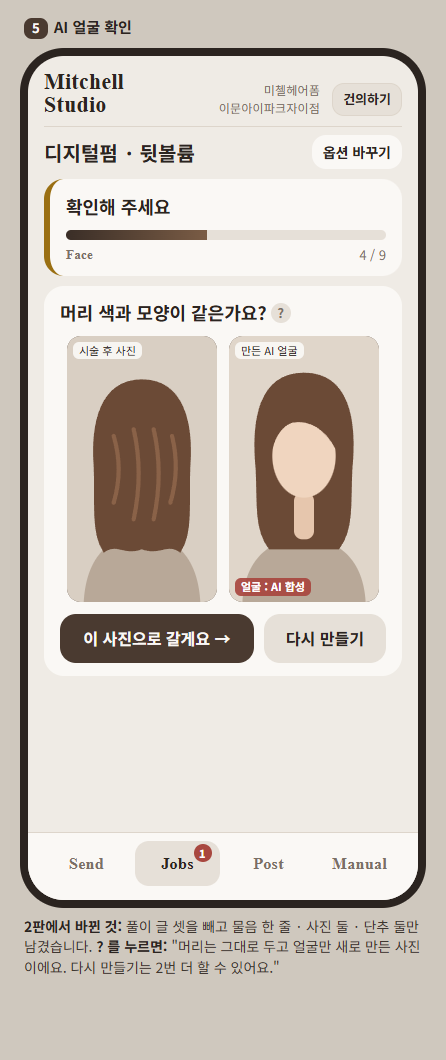
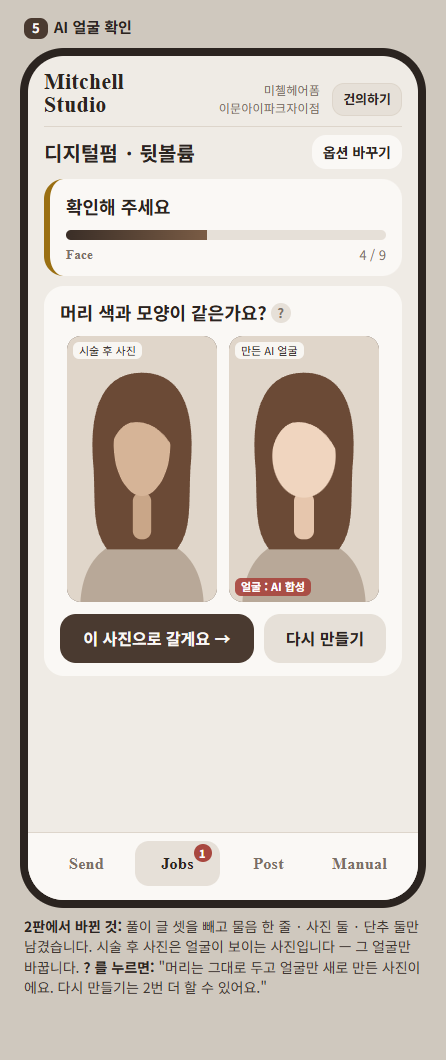
S8_UIUX_REWORK: 덧붙임 8 — 화면 5의 시술 후 사진을 얼굴이 보이는 앞모습 그림으로(머리 같고 얼굴만 다름) · 화면 4 · 15 작은 그림에 한 장 · s05 · s04 · s15 다시 찍음 · README · 반환

diff --git a/projects/btsr/roles/rsch/sub/s8_uiux_rework/UIUX_웹앱1차시안_3판_CLAUDE.html b/projects/btsr/roles/rsch/sub/s8_uiux_rework/UIUX_웹앱1차시안_3판_CLAUDE.html
@@ -144,6 +144,14 @@ ol.scr7 { margin:0; padding-left:22px; display:flex; flex-direction:column; gap:
     <ellipse cx="45" cy="72" rx="19" ry="25" fill="#f0d5bf"/>
     <path d="M26 68 C24 44 38 37 50 39 C61 41 66 52 64 68 C58 56 48 50 38 52 C32 54 28 60 26 68Z" fill="#6b4a36"/>
   </symbol>
+  <symbol id="p-front" viewBox="0 0 90 160">
+    <rect width="90" height="160" fill="#e0d6ca"/>
+    <path d="M8 160 Q10 124 45 120 Q80 124 82 160Z" fill="#b8a898"/>
+    <path d="M45 22 C18 22 13 50 16 80 C17 102 15 116 24 128 L66 128 C75 116 73 102 74 80 C77 50 72 22 45 22Z" fill="#6b4a36"/>
+    <rect x="39.5" y="94" width="11" height="28" rx="5" fill="#c9a688"/>
+    <path d="M28 66 C28 52 34 46 45 46 C56 46 62 52 62 66 C62 82 54 96 45 96 C36 96 28 82 28 66Z" fill="#d6b497"/>
+    <path d="M26 68 C24 44 38 37 50 39 C61 41 66 52 64 68 C58 56 48 50 38 52 C32 54 28 60 26 68Z" fill="#6b4a36"/>
+  </symbol>
   <symbol id="p-blur" viewBox="0 0 90 160">
     <rect width="90" height="160" fill="#d4cabe"/>
     <ellipse cx="45" cy="84" rx="34" ry="54" fill="#8a6c58" opacity=".55"/>
@@ -225,7 +233,7 @@ ol.scr7 { margin:0; padding-left:22px; display:flex; flex-direction:column; gap:
     <div class="card">
       <div class="thumbs" style="margin-top:0">
         <div class="th"><svg viewBox="0 0 90 160" preserveAspectRatio="xMidYMid slice"><use href="#p-after"/></svg><i>시술 후</i></div>
-        <div class="th"><svg viewBox="0 0 90 160" preserveAspectRatio="xMidYMid slice"><use href="#p-after"/></svg><i>시술 후</i></div>
+        <div class="th"><svg viewBox="0 0 90 160" preserveAspectRatio="xMidYMid slice"><use href="#p-front"/></svg><i>시술 후</i></div>
         <div class="th none"><i>시술 전<br>없음</i></div>
         <div class="th make"><i>AI 얼굴<br>만들 예정</i></div>
       </div>
@@ -251,14 +259,14 @@ ol.scr7 { margin:0; padding-left:22px; display:flex; flex-direction:column; gap:
     <div class="card">
       <div style="font-size:18px;font-weight:700">머리 색과 모양이 같은가요?<span class="q">?</span></div>
       <div class="side" style="margin-top:10px;justify-content:center">
-        <div class="vid"><svg class="pic" viewBox="0 0 90 160" preserveAspectRatio="xMidYMid slice"><use href="#p-after"/></svg><u>시술 후 사진</u></div>
+        <div class="vid"><svg class="pic" viewBox="0 0 90 160" preserveAspectRatio="xMidYMid slice"><use href="#p-front"/></svg><u>시술 후 사진</u></div>
         <div class="vid"><svg class="pic" viewBox="0 0 90 160" preserveAspectRatio="xMidYMid slice"><use href="#p-face"/></svg><u>만든 AI 얼굴</u><em>얼굴 : AI 합성</em></div>
       </div>
       <div class="row" style="margin-top:12px"><div class="btn" style="flex:1.65;font-size:16px;padding:13px 6px">이 사진으로 갈게요 →</div><div class="btn soft" style="font-size:16px;padding:13px 6px">다시 만들기</div></div>
     </div>
   </div>
   <div class="tabs"><span>Send</span><span class="on">Jobs<span class="badge">1</span></span><span>Post</span><span>Manual</span></div></div>
-  <div class="ft"><b>2판에서 바뀐 것:</b> 풀이 글 셋을 빼고 물음 한 줄 · 사진 둘 · 단추 둘만 남겼습니다. <b>? 를 누르면:</b> "머리는 그대로 두고 얼굴만 새로 만든 사진이에요. 다시 만들기는 2번 더 할 수 있어요."</div>
+  <div class="ft"><b>2판에서 바뀐 것:</b> 풀이 글 셋을 빼고 물음 한 줄 · 사진 둘 · 단추 둘만 남겼습니다. 시술 후 사진은 얼굴이 보이는 사진입니다 — 그 얼굴만 바꿉니다. <b>? 를 누르면:</b> "머리는 그대로 두고 얼굴만 새로 만든 사진이에요. 다시 만들기는 2번 더 할 수 있어요."</div>
 </div>
 
 <!-- ───────── 6 만드는 중 ───────── -->
@@ -481,7 +489,7 @@ ol.scr7 { margin:0; padding-left:22px; display:flex; flex-direction:column; gap:
     <div class="card">
       <div class="thumbs" style="grid-template-columns:repeat(5,1fr);margin:0">
         <div class="th"><svg viewBox="0 0 90 160" preserveAspectRatio="xMidYMid slice"><use href="#p-after"/></svg><b class="x">×</b><i>영상</i></div>
-        <div class="th"><svg viewBox="0 0 90 160" preserveAspectRatio="xMidYMid slice"><use href="#p-after"/></svg><b class="x">×</b><i>사진</i></div>
+        <div class="th"><svg viewBox="0 0 90 160" preserveAspectRatio="xMidYMid slice"><use href="#p-front"/></svg><b class="x">×</b><i>사진</i></div>
         <div class="th"><svg viewBox="0 0 90 160" preserveAspectRatio="xMidYMid slice"><use href="#p-after"/></svg><b class="x">×</b><i>사진</i></div>
         <div class="th"><svg viewBox="0 0 90 160" preserveAspectRatio="xMidYMid slice"><use href="#p-before"/></svg><b class="x">×</b><i>사진</i></div>
         <div class="th make"><i style="font-size:22px;bottom:30%">+</i></div>

diff --git a/projects/btsr/roles/rsch/sub/s8_uiux_rework/반환.md b/projects/btsr/roles/rsch/sub/s8_uiux_rework/반환.md
@@ -1,6 +1,6 @@
 # 반환 — MITCHELL_STUDIO/BTSR/RSCH/S8_UIUX_REWORK
 
-- 쓴 때: 2026-11-21 15:04 KST · 덧붙임 2를 넣어 고친 때: 2026-11-21 15:17 KST · 덧붙임 3을 넣어 고친 때: 2026-11-21 15:32 KST · 덧붙임 4를 넣어 고친 때: 2026-11-21 15:38 KST · 덧붙임 5를 넣어 고친 때: 2026-11-21 15:43 KST · 덧붙임 6을 넣어 고친 때: 2026-11-21 16:18 KST · 덧붙임 7을 넣어 고친 때: 2026-11-21 16:32 KST · 연 이: PRIMARY Paseo a97bebab · 패킷: `OPEN_PACKET.md`(8bd51fa · 덧붙임 d069374 · 덧붙임 2 ed67f92 · 덧붙임 3 7c55ad5 · 덧붙임 4 5363184 · 덧붙임 5 2b3b203 · 덧붙임 6 13a45dd · 덧붙임 7 df8eef2)
+- 쓴 때: 2026-11-21 15:04 KST · 덧붙임 2를 넣어 고친 때: 2026-11-21 15:17 KST · 덧붙임 3을 넣어 고친 때: 2026-11-21 15:32 KST · 덧붙임 4를 넣어 고친 때: 2026-11-21 15:38 KST · 덧붙임 5를 넣어 고친 때: 2026-11-21 15:43 KST · 덧붙임 6을 넣어 고친 때: 2026-11-21 16:18 KST · 덧붙임 7을 넣어 고친 때: 2026-11-21 16:32 KST · 덧붙임 8을 넣어 고친 때: 2026-11-21 16:35 KST · 연 이: PRIMARY Paseo a97bebab · 패킷: `OPEN_PACKET.md`(8bd51fa · 덧붙임 d069374 · 덧붙임 2 ed67f92 · 덧붙임 3 7c55ad5 · 덧붙임 4 5363184 · 덧붙임 5 2b3b203 · 덧붙임 6 13a45dd · 덧붙임 7 df8eef2 · 덧붙임 8 816471e)
 - 낸 것: `UIUX_웹앱1차시안_3판_CLAUDE.html`(화면 17개 · `#s1`…`#s17`) · `s01.png`–`s17.png` · `README.md` · 이 글
 - 바탕: 시안 2판(`sub/s6_uiux_draft/v2/` — 고치지 않음) · 지금 웹앱 `app/webapp/static/app.html`(제품 저장소 로컬 `origin/main` 3072e7e를 `git show`로만 봄)
 - 커밋: 첫 판 29cd237(화면 13개) → 덧붙임을 넣은 판 fc31856(화면 14개) → 덧붙임 2를 넣은 판(화면 2 · 3 · 10만 고침 · 번호 그대로)이 그 다음 커밋
@@ -14,6 +14,7 @@
 | 3 | "보내기가 아니고 Send로 해주세요." | 큰 단추 `Send`. 카드 머리 '다 됨'은 뺌(화면 10 · 11은 바 아래 `Done`). 한글 견줘 보기 뺌. |
 | 4 | "작업 목록 없습니다. 하나씩만하세요. 진행중엔 그냥 프로그레스 바" | 작업 목록 화면 뺌. Jobs = 지금 만드는 한 편. 만드는 중 = 제목 · 하는 일 한 줄 · 바 · 바 아래 단계 이름과 몇째(예: `Voice · Music · Fit · Export` 7 / 9). 진행 기록 · 단계 줄은 모든 화면에서 뺌. 확인이 필요하면 같은 화면에 물음 한 줄 + 단추. |
 | 5 | "도대체 알림 설명화면은 왜 있는건가요?" · 14:59:10 "알림 설정은 따로 메뉴얼로 빼시고요." | 알림 화면 뺌. 화면 밖 설명과 README에 "알림 켜는 법은 Manual 탭" 한 줄. |
+| 덧붙임 8 | (PRIMARY 패킷 덧붙임 8 — 그림 속 · 한알 16:14:32 · 요청서 003 24번) | 얼굴이 보이는 시술 후 그림(`p-front`)을 새로 그림 — '만든 AI 얼굴' 그림(`p-face`)과 배경 · 어깨 · 머리 색 · 길이 · 모양 · 앞머리는 같고 **얼굴 면의 꼴(갸름한 꼴)과 빛깔(더 짙게)만 다름**. 이목구비는 그리지 않음. **화면 5:** 왼쪽 '시술 후 사진'을 뒷모습에서 이 그림으로 바꿈. '얼굴 : AI 합성' 표시는 오른쪽에만. 물음 · ? · 단추는 그대로. 밖 설명에 '시술 후 사진은 얼굴이 보이는 사진입니다 — 그 얼굴만 바꿉니다' 한 마디. **화면 4:** 시술 후 둘 가운데 둘째를 이 그림으로. **화면 15:** 사진 셋 가운데 첫째를 이 그림으로. **화면 17:** 그대로(뒷모습뿐). `s05` · `s04` · `s15` 다시 찍음. README에 아홉째 줄. 번호 그대로. |
 | 덧붙임 7 | (PRIMARY 패킷 덧붙임 7 — 화면 밖 설명만 · 화면 그림 속은 그대로) | **화면 16 밖 설명:** '차례로는 화면 3과 4 사이' → '화면 3(원고를 쓰는 중) 다음, 화면 5(AI 얼굴 확인) 앞'. **화면 4 밖 설명:** '화면 4 · 17은 자료를 받은 바로 뒤에 묻는 것이라 차례로는 화면 2와 3 사이' 한 마디를 넣고, 'AI 얼굴은 여기서도 묻지 않습니다'를 '얼굴이 보이는 시술 후 사진이 있으면 묻지 않고 웹앱이 만듭니다 — 없을 때만 화면 17로 알립니다'로. 자리를 내려고 '미첼이 고를 때까지 바는 그 자리에 서 있습니다' 한 줄은 뺌. **화면 3:** 밖 설명을 같은 뜻으로 맞추고, 그림 밖 제목 줄을 'AI 얼굴 — 얼굴이 보이는 사진이 있으면 묻지 않음'으로. README의 일곱째 · 여덟째 줄을 같은 뜻으로 고치고 '차례로 읽으면' 한 줄을 더함. `s03` · `s04` · `s16` 다시 찍음. 번호 · 그림 속 화면은 그대로. |
 | 덧붙임 6 | 16:14:32 "안올렸으면 알려주기만 하고 확인 받으면 ai 얼굴없이 진행하는게 맞지 않나요" (PRIMARY 패킷 덧붙임 6 · 요청서 003 24번) | **화면 17 '얼굴이 보이는 사진이 없을 때'를 새로 넣음** — 화면 4와 같은 꼴 · 같은 바 자리(`Intake` 2 / 9): 제목 줄 · 현황 「확인해 주세요」 + 바 · 올린 것 작은 그림(시술 후 둘 · 시술 전 하나 · 점선 칸 '얼굴 사진 없음') · 한 줄 「얼굴이 보이는 시술 후 사진이 없어요」 · 단추 「AI 얼굴 없이 갈게요 →」(주)와 「더 보내기」. 화면 속 설명 글 없음. Jobs 탭 빨간 숫자 1. 밖 설명은 패킷 글대로(앞모습을 지어내지 않음 · AI 얼굴 장면과 AI 표시 없이 만들고 화면 5를 건너뜀 · 더 보내면 화면 5에서 확인 · 화면 4와 같은 자리). 화면 7의 밖 설명과 README의 확인을 기다리는 화면 목록을 4 · 5 · 8 · 10 · 16 · 17로. `s17` 찍고 `s07` 다시 찍음. README에 여덟째 줄과 화면 17 그림 줄. 앞 화면 번호(1 – 16)는 그대로. |
 | 덧붙임 5 | 15:27:23 "변경된 기획에 맞춰 시안도 수정요청 하세요." (PRIMARY 패킷 덧붙임 5 · 요구 2.2판 R2.5 · 결정 19 · 요청서 003 19번 라) | **화면 16 '원고 확인'을 새로 넣음** — 화면 5 · 10의 확인 화면 꼴: 제목 줄 · 현황 「확인해 주세요」 + 바(`Script` 3 / 9) · 원고 칸(번호 붙은 일곱 줄 — 지어낸 예시 · 그 아래 글자 수 `85글자`) · 단추 「이 원고로 갈게요 →」(주)와 「고칠 점 적기」. 화면 속 설명 글 없음. Jobs 탭 빨간 숫자 1. 밖 설명에 '차례로는 화면 3과 4 사이'. 화면 7의 밖 설명에서 확인을 기다리는 화면 목록을 4 · 5 · 8 · 10 · 16으로. `s16` 찍고 `s07` 다시 찍음. README에 일곱째 줄과 화면 16 그림 줄. 앞 화면 번호(1 – 15)는 그대로. |
@@ -60,13 +61,15 @@
 ## 확인하지 않은 것
 
 - 그림은 윈도우의 화면 없는 Chrome(446×1060)으로 찍음. 아이폰 사파리에서 보지 않음 — 글꼴이 다르게 보일 수 있음.
-- 첫 판 13개 그림은 모두 눈으로 봄(넘침 · 겹침 없음). 덧붙임 뒤 다시 찍은 14개 가운데는 새 화면 7과 끝 화면 14만 다시 봄 — 나머지는 번호만 바뀜. 덧붙임 2로 다시 찍은 셋(`s02` · `s03` · `s10`)과 덧붙임 3으로 다시 찍은 둘(`s07` · `s09`) · 덧붙임 4로 찍은 셋(`s07` · `s09` · `s15`) · 덧붙임 5로 찍은 둘(`s16` · `s07`) · 덧붙임 6으로 찍은 둘(`s17` · `s07`) · 덧붙임 7로 다시 찍은 셋(`s03` · `s04` · `s16`)은 모두 봄. HTML을 넓은 창에서 한꺼번에 펼친 꼴은 찍어 보지 않음.
+- 첫 판 13개 그림은 모두 눈으로 봄(넘침 · 겹침 없음). 덧붙임 뒤 다시 찍은 14개 가운데는 새 화면 7과 끝 화면 14만 다시 봄 — 나머지는 번호만 바뀜. 덧붙임 2로 다시 찍은 셋(`s02` · `s03` · `s10`)과 덧붙임 3으로 다시 찍은 둘(`s07` · `s09`) · 덧붙임 4로 찍은 셋(`s07` · `s09` · `s15`) · 덧붙임 5로 찍은 둘(`s16` · `s07`) · 덧붙임 6으로 찍은 둘(`s17` · `s07`) · 덧붙임 7로 다시 찍은 셋(`s03` · `s04` · `s16`) · 덧붙임 8로 다시 찍은 셋(`s05` · `s04` · `s15`)은 모두 봄. HTML을 넓은 창에서 한꺼번에 펼친 꼴은 찍어 보지 않음.
 - 'n / 9'는 지금 웹앱의 단계 아홉(Send · Intake · Script · Face · Edit · Preview · Voice… · Done · Post)을 센 것. 바가 실제로 어떻게 차는지(단계마다 한 칸인지 · 단계 안에서도 움직이는지)는 정해진 바 없음.
 - 화면 12 · 13의 바에는 단계 이름 · 몇째를 적지 않음 — 고쳐 만들 때 · 규격을 맞출 때 바가 어디서부터 차는지 정해진 바 없음.
 - (덧붙임 3 · 4로 정해짐) 확인을 기다리는 때에는 Send가 막히고, 개발자에게 넘어간 때에는 다시 켜짐. 「처음부터 시작」 뒤는 화면 15. 개발자에게 넘어간 때 그냥 Send 탭을 눌러 본 화면(멈춘 편의 자료가 들어 있는지 · 비어 있는지)은 정해진 바 없어 그리지 않음.
 - 화면 15의 올린 것 꼴: 지금 웹앱에는 '고른 뒤 미리 보는' 꼴이 없음(고르면 바로 보내고, 보내는 중에는 파일 이름 · 크기 · 바 줄만 있음 — `app.html` `drawList`). 그래서 패킷대로 가장 단순한 작은 그림 줄 + × 로 그림. 더하는 길로 끝에 + 칸을 둔 것은 내 읽기('빼고 더해 다시 보낸다'에서) — Send 단추가 이 화면에서 '사진 고르기'가 아니라 '이대로 보내기'가 되는 것도 같은 읽기.
 - 화면 17: 단추 줄은 글이 긴 주 단추를 왼쪽에 넓게 둠(화면 5 · 16의 꼴) — 화면 4는 주 단추가 오른쪽이라 자리가 다름. 넷째 작은 그림 칸의 글 '얼굴 사진 없음'은 화면 4의 '시술 전 없음' 칸에 맞춘 것(내 읽기).
-- (덧붙임 7로 맞춤) 화면 3 · 4의 밖 설명과 화면 3의 제목 줄을 화면 17과 같은 뜻으로 고침. 다만 **화면 4의 그림 속 넷째 칸 'AI 얼굴 만들 예정'**은 그림 속이라 그대로임 — 얼굴이 보이는 사진이 있는 경우의 그림으로 읽으면 맞음.
+- (덧붙임 7 · 8로 맞춤) 화면 3 · 4의 밖 설명과 화면 3의 제목 줄을 화면 17과 같은 뜻으로 고쳤고, 화면 4의 그림 속에도 얼굴이 보이는 시술 후 한 장을 넣어 넷째 칸 'AI 얼굴 만들 예정'과 맞음.
+- 덧붙임 8 — 다른 화면의 같은 어긋남을 훑은 것: 올린 것 작은 그림이 있는 화면은 4 · 15 · 17뿐(화면 2 · 3의 칸은 덧붙임 2로 빠짐) — 4 · 15는 고쳤고 17은 뒷모습뿐이 맞음. 화면 10 – 13의 영상 그림은 AI 얼굴이 든 완성 영상('얼굴 : AI 합성' 표시 있음)으로, 올린 사진이 함께 보이지 않아 어긋남이 없다고 보고 그대로 둠. 화면 8의 흐린 사진도 그대로.
+- 화면 15는 화면 9(레이어드 컷)에서 넘어온 예시인데, 화면 4(같은 '레이어드 컷')의 올린 것과 장수 · 갈래가 똑같지는 않음(4: 시술 후 둘 · 시술 전 없음 / 15: 영상 1 · 사진 3) — 두 화면은 따로 지어낸 예시라 맞추지 않음.
 - README의 '차례로 읽으면: 1 → 2 → (4 · 17) → 3 → 16 → 5 → 6 → 10' 한 줄은 덧붙임 5 · 7의 자리 글과 바의 몇째(2 · 3 · 4 · 7 · 8 / 9)를 이어 내가 적은 것 — 화면 7 · 8 · 9 · 11 – 15는 곁가지라 넣지 않음. 기획안 초안의 차례와 맞는지는 대어 보지 않음.
 - 시술 전 사진도 없고 얼굴이 보이는 사진도 없을 때 두 물음이 어떤 차례로 나오는지는 정해진 바 없어 그리지 않음.
 - 화면 16의 원고 꼴: 지금 웹앱의 원고 확인 칸(번호 붙은 줄 목록 + 글자 수 — `app.html` 577–581줄)을 따름. 지금 웹앱에 있는 설명 글 둘("마지막 줄 = 썸네일 문구 3개" · "공백·문장부호 빼고 센 글자 수 …")은 화면 속 설명이라 넣지 않았고, 그래서 **썸네일 문구 줄도 그리지 않음** — 원고 끝에 썸네일 문구 줄이 그대로 붙는지 · 붙으면 ? 표로 풀이를 달지는 정해진 바 없음. 글자 수는 지금 웹앱처럼 공백 · 문장부호를 빼고 센 값(85)이고, 상한(`/N`)은 정해진 값을 몰라 적지 않음.

diff --git a/projects/btsr/roles/rsch/sub/s8_uiux_rework/README.md b/projects/btsr/roles/rsch/sub/s8_uiux_rework/README.md
@@ -10,6 +10,7 @@
 6. **「처음부터 시작」** 단추를 넣었습니다 — 개발자에게 넘어간 화면(화면 9)과 막힌 Send 화면(화면 7)에. 누르면 한 번 더 묻고 Send 화면으로 돌아가며, 올린 사진 · 영상과 요청 글은 그대로 들어 있습니다(화면 15).
 7. **원고 확인** 화면을 더했습니다(화면 16) — 차례로는 화면 3(원고를 쓰는 중) 다음, 화면 5(AI 얼굴 확인) 앞의 걸음입니다. 미첼의 확인을 기다리는 화면은 4 · 5 · 8 · 10 · 16 · 17입니다.
 8. **얼굴이 보이는 사진이 없을 때** 화면을 더했습니다(화면 17) — 웹앱은 앞모습을 지어내지 않고 미첼에게 알리며, 미첼이 확인하면 AI 얼굴 없이 만듭니다. 얼굴이 보이는 사진이 있으면 묻지 않고 웹앱이 AI 얼굴을 만듭니다(화면 3 · 5). 화면 4 · 17은 자료를 받은 바로 뒤에 묻는 것이라 차례로는 화면 2와 3 사이입니다.
+9. 그림 속 **시술 후 사진**을 맞췄습니다 — 화면 5의 시술 후 사진은 얼굴이 보이는 앞모습이고, AI 얼굴은 머리는 그대로 두고 그 얼굴만 바꾼 것입니다. 화면 4 · 15의 작은 그림에도 얼굴이 보이는 시술 후 한 장이 있습니다.
 
 화면은 17개입니다(2판에서 둘을 빼고 화면 7 · 15 · 16 · 17을 새로 넣음). 그림 속 작업 · 글 · 사람은 모두 지어낸 예시입니다.
 
